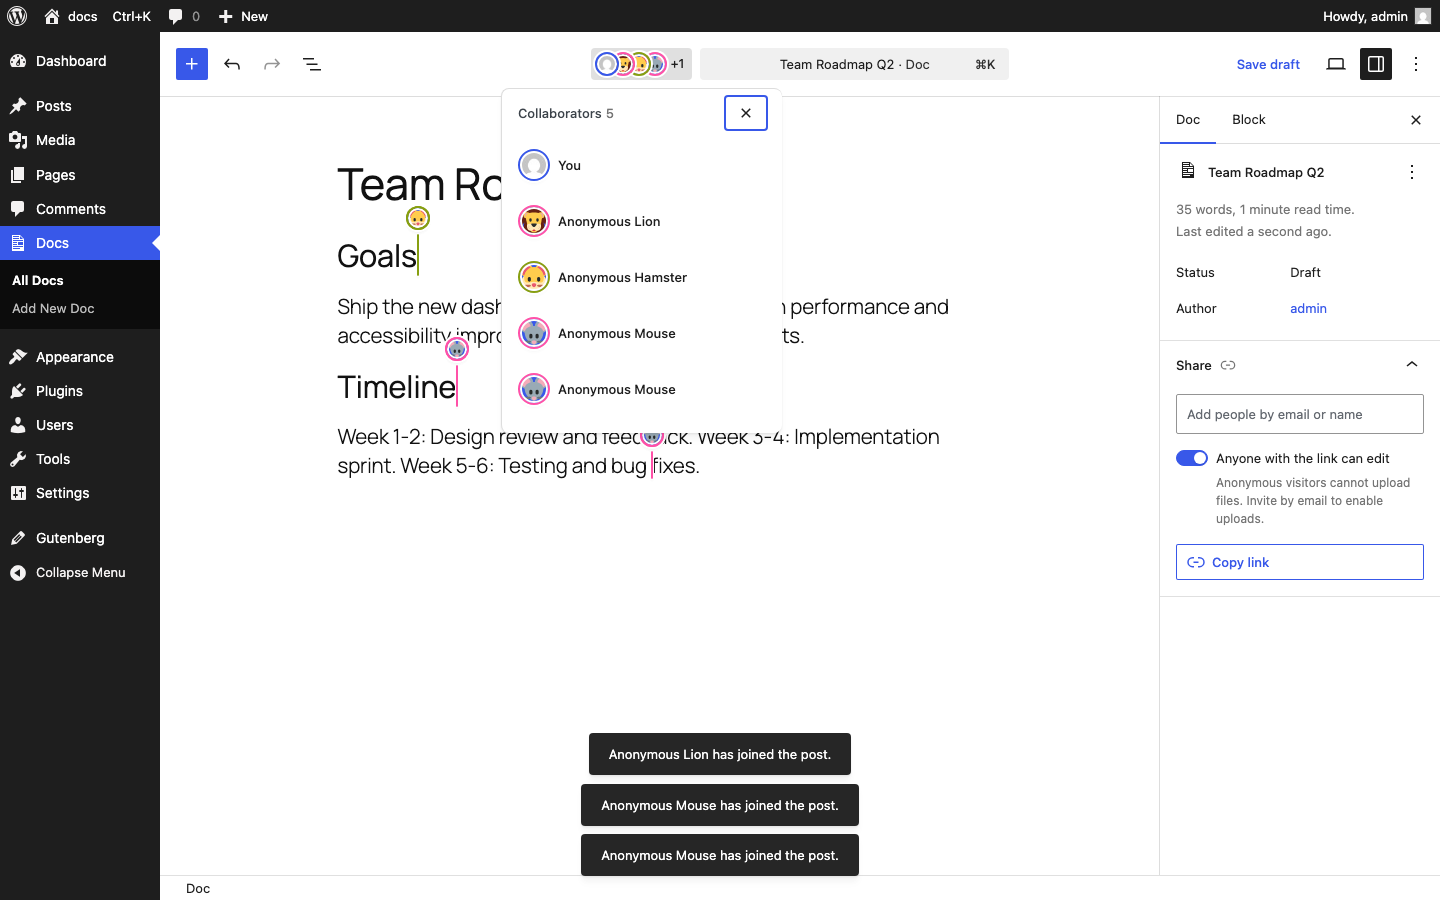
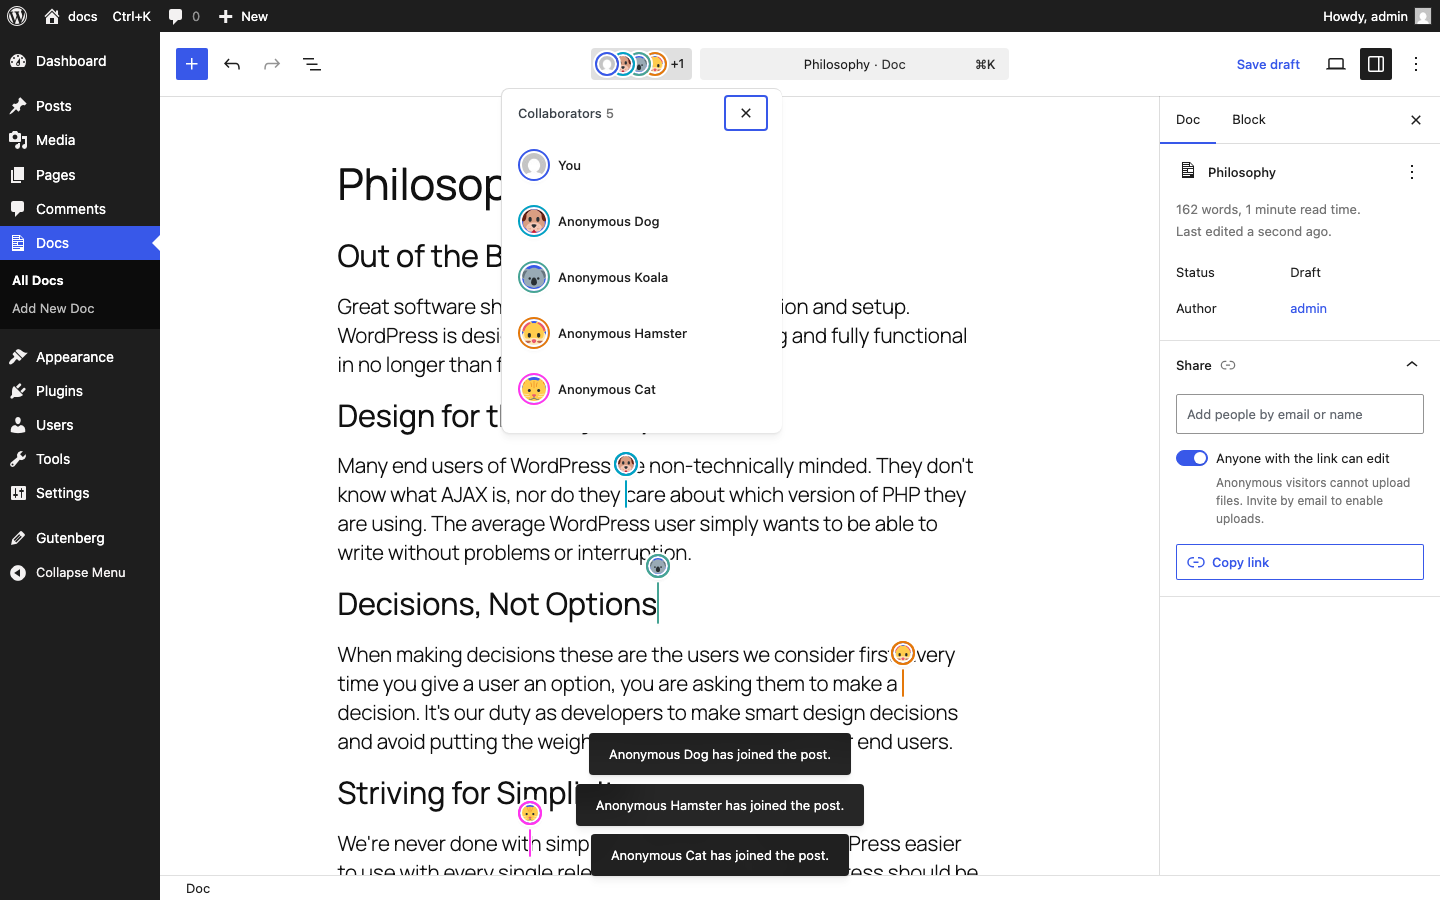
Better demo content and cursor positions for screenshot
Use WordPress philosophy text with spread out cursor positions across
headings and paragraphs for a more realistic demo screenshot.

diff --git a/tests/e2e/collab-editing.spec.js b/tests/e2e/collab-editing.spec.js
@@ -90,9 +90,41 @@ test.describe( 'Collaborative editing', () => {
 			path: '/wp/v2/docs',
 			method: 'POST',
 			data: {
-				title: 'Team Roadmap Q2',
+				title: 'Philosophy',
 				status: 'draft',
-				content: '<!-- wp:heading -->\n<h2 class="wp-block-heading">Goals</h2>\n<!-- /wp:heading -->\n\n<!-- wp:paragraph -->\n<p>Ship the new dashboard by end of April. Focus on performance and accessibility improvements across all components.</p>\n<!-- /wp:paragraph -->\n\n<!-- wp:heading -->\n<h2 class="wp-block-heading">Timeline</h2>\n<!-- /wp:heading -->\n\n<!-- wp:paragraph -->\n<p>Week 1-2: Design review and feedback. Week 3-4: Implementation sprint. Week 5-6: Testing and bug fixes.</p>\n<!-- /wp:paragraph -->',
+				content: [
+					'<!-- wp:heading -->',
+					'<h2 class="wp-block-heading">Out of the Box</h2>',
+					'<!-- /wp:heading -->',
+					'',
+					'<!-- wp:paragraph -->',
+					'<p>Great software should work with little configuration and setup. WordPress is designed to get you up and running and fully functional in no longer than five minutes.</p>',
+					'<!-- /wp:paragraph -->',
+					'',
+					'<!-- wp:heading -->',
+					'<h2 class="wp-block-heading">Design for the Majority</h2>',
+					'<!-- /wp:heading -->',
+					'',
+					'<!-- wp:paragraph -->',
+					'<p>Many end users of WordPress are non-technically minded. They don\'t know what AJAX is, nor do they care about which version of PHP they are using. The average WordPress user simply wants to be able to write without problems or interruption.</p>',
+					'<!-- /wp:paragraph -->',
+					'',
+					'<!-- wp:heading -->',
+					'<h2 class="wp-block-heading">Decisions, Not Options</h2>',
+					'<!-- /wp:heading -->',
+					'',
+					'<!-- wp:paragraph -->',
+					'<p>When making decisions these are the users we consider first. Every time you give a user an option, you are asking them to make a decision. It\'s our duty as developers to make smart design decisions and avoid putting the weight of technical choices on our end users.</p>',
+					'<!-- /wp:paragraph -->',
+					'',
+					'<!-- wp:heading -->',
+					'<h2 class="wp-block-heading">Striving for Simplicity</h2>',
+					'<!-- /wp:heading -->',
+					'',
+					'<!-- wp:paragraph -->',
+					'<p>We\'re never done with simplicity. We want to make WordPress easier to use with every single release. Every version of WordPress should be easier and more enjoyable to use than the last.</p>',
+					'<!-- /wp:paragraph -->',
+				].join( '\n' ),
 			},
 		} );
 
@@ -131,24 +163,27 @@ test.describe( 'Collaborative editing', () => {
 				} ).catch( () => {} );
 			}
 
-			// Position each anon user's cursor at a different block.
-			const blockSelectors = [
-				'h2:has-text("Goals")',
-				'p:has-text("Ship the new")',
-				'h2:has-text("Timeline")',
-				'p:has-text("Week 1-2")',
-			];
+			// Position each anon user's cursor at a specific place.
 			for ( let i = 0; i < anonPages.length; i++ ) {
 				await dismissWelcomeModal( anonPages[ i ] );
-				// Anon editors may or may not have the editor-canvas iframe.
-				const iframe = anonPages[ i ].locator( 'iframe[name="editor-canvas"]' );
-				if ( await iframe.count() > 0 ) {
-					await anonPages[ i ].frameLocator( 'iframe[name="editor-canvas"]' )
-						.locator( blockSelectors[ i ] ).click( { timeout: 5000 } ).catch( () => {} );
-				} else {
-					await anonPages[ i ].locator( blockSelectors[ i ] ).click( { timeout: 5000 } ).catch( () => {} );
-				}
 			}
+
+			const clickInCanvas = async ( anonPage, selector, position ) => {
+				const iframe = anonPage.locator( 'iframe[name="editor-canvas"]' );
+				const loc = ( await iframe.count() > 0 )
+					? anonPage.frameLocator( 'iframe[name="editor-canvas"]' ).locator( selector )
+					: anonPage.locator( selector );
+				await loc.click( { timeout: 5000, position } ).catch( () => {} );
+			};
+
+			// 1: end of "Decisions, Not Options" heading
+			await clickInCanvas( anonPages[ 0 ], 'h2:has-text("Decisions, Not Options")', { x: 400, y: 10 } );
+			// 2: after "PHP they are using." in Design for the Majority
+			await clickInCanvas( anonPages[ 1 ], 'p:has-text("non-technically minded")', { x: 350, y: 30 } );
+			// 3: end of "end users." in Decisions paragraph
+			await clickInCanvas( anonPages[ 2 ], 'p:has-text("smart design decisions")', { x: 600, y: 40 } );
+			// 4: in "Striving for Simplicity" section
+			await clickInCanvas( anonPages[ 3 ], 'p:has-text("never done with simplicity")', { x: 200, y: 10 } );
 
 			// Give time for cursor positions to sync.
 			await page.waitForTimeout( 3000 );
